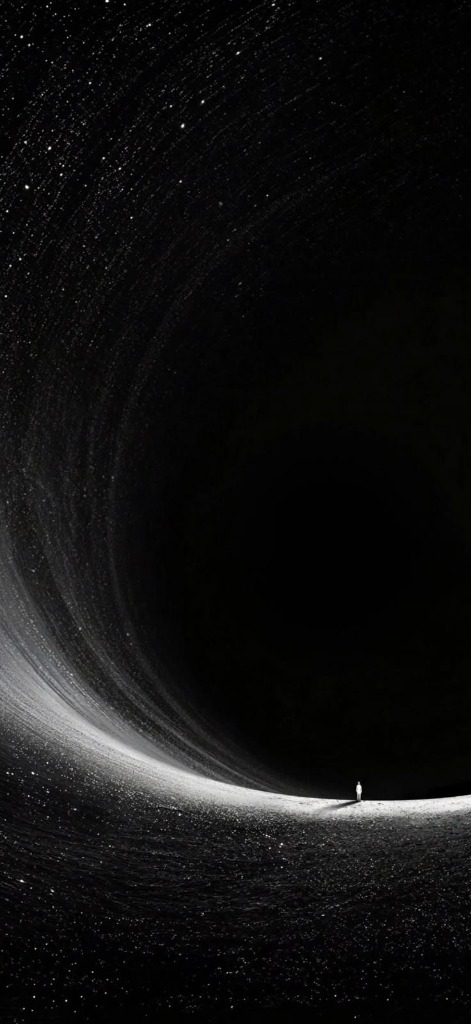
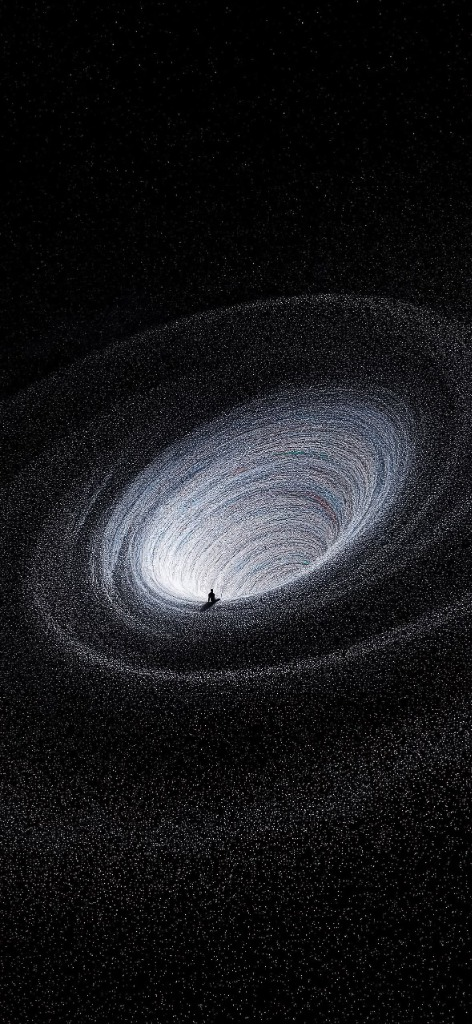
feat: apply cosmic vortex background, remove HUD online bar, and align mobile player with main card

diff --git a/src/components/Player.jsx b/src/components/Player.jsx
@@ -43,51 +43,53 @@ const Player = () => {
       </audio>
 
       {/* Volume Control Panel */}
-      <div className="fixed bottom-3 sm:bottom-6 left-1/2 sm:left-auto sm:right-6 -translate-x-1/2 sm:translate-x-0 z-50 glass-morphism rounded-2xl p-2.5 sm:p-3.5 flex flex-col gap-1.5 sm:gap-2 transition-all duration-300 w-[calc(100%-24px)] max-w-[340px] sm:max-w-none sm:w-auto shadow-2xl border border-white/10">
+      <div className="fixed bottom-3 sm:bottom-6 left-1/2 sm:left-auto sm:right-6 -translate-x-1/2 sm:translate-x-0 z-50 glass-morphism rounded-2xl p-3 sm:p-4 flex flex-col gap-2 transition-all duration-300 w-[calc(100%-28px)] max-w-sm sm:max-w-none sm:w-auto shadow-2xl border border-white/10">
         {/* Now Playing Text */}
         <div className="text-[10px] sm:text-xs text-zinc-400 text-center font-mono font-medium tracking-wider uppercase">
           Tocando agora: AUG MIDNIGHT
         </div>
 
         {/* Controls */}
-        <div className="flex items-center justify-center sm:justify-start gap-2.5 sm:gap-3">
-          {/* Play/Pause Button */}
-          <button
-            onClick={togglePlay}
-            className="w-9 h-9 sm:w-11 sm:h-11 rounded-full bg-white/10 hover:bg-white/20 active:scale-95 flex items-center justify-center transition-all duration-200"
-            title={isPlaying ? "Pausar" : "Tocar"}
-          >
-            {isPlaying ? (
-              <svg className="w-4 h-4 sm:w-5 sm:h-5 text-white" fill="currentColor" viewBox="0 0 24 24">
-                <path d="M6 19h4V5H6v14zm8-14v14h4V5h-4z"/>
-              </svg>
-            ) : (
-              <svg className="w-4 h-4 sm:w-5 sm:h-5 text-white" fill="currentColor" viewBox="0 0 24 24">
-                <path d="M8 5v14l11-7z"/>
-              </svg>
-            )}
-          </button>
+        <div className="flex items-center justify-between sm:justify-start gap-2.5 sm:gap-3 px-1 sm:px-0">
+          <div className="flex items-center gap-2">
+            {/* Play/Pause Button */}
+            <button
+              onClick={togglePlay}
+              className="w-9 h-9 sm:w-11 sm:h-11 rounded-full bg-white/10 hover:bg-white/20 active:scale-95 flex items-center justify-center transition-all duration-200"
+              title={isPlaying ? "Pausar" : "Tocar"}
+            >
+              {isPlaying ? (
+                <svg className="w-4 h-4 sm:w-5 sm:h-5 text-white" fill="currentColor" viewBox="0 0 24 24">
+                  <path d="M6 19h4V5H6v14zm8-14v14h4V5h-4z"/>
+                </svg>
+              ) : (
+                <svg className="w-4 h-4 sm:w-5 sm:h-5 text-white" fill="currentColor" viewBox="0 0 24 24">
+                  <path d="M8 5v14l11-7z"/>
+                </svg>
+              )}
+            </button>
 
-          {/* Mute Button */}
-          <button
-            onClick={toggleMute}
-            className="w-9 h-9 sm:w-11 sm:h-11 rounded-full bg-white/10 hover:bg-white/20 active:scale-95 flex items-center justify-center transition-all duration-200"
-            title={isMuted ? "Ativar som" : "Mutar"}
-          >
-            {isMuted ? (
-              <svg className="w-4 h-4 sm:w-5 sm:h-5 text-white" fill="none" stroke="currentColor" viewBox="0 0 24 24">
-                <path strokeLinecap="round" strokeLinejoin="round" strokeWidth={2} d="M5.586 15H4a1 1 0 01-1-1v-4a1 1 0 011-1h1.586l4.707-4.707C10.923 3.663 12 4.109 12 5v14c0 .891-1.077 1.337-1.707.707L5.586 15z" />
-                <path strokeLinecap="round" strokeLinejoin="round" strokeWidth={2} d="M17 14l2-2m0 0l2-2m-2 2l-2-2m2 2l2 2" />
-              </svg>
-            ) : (
-              <svg className="w-4 h-4 sm:w-5 sm:h-5 text-white" fill="none" stroke="currentColor" viewBox="0 0 24 24">
-                <path strokeLinecap="round" strokeLinejoin="round" strokeWidth={2} d="M15.536 8.464a5 5 0 010 7.072m2.828-9.9a9 9 0 010 12.728M5.586 15H4a1 1 0 01-1-1v-4a1 1 0 011-1h1.586l4.707-4.707C10.923 3.663 12 4.109 12 5v14c0 .891-1.077 1.337-1.707.707L5.586 15z" />
-              </svg>
-            )}
-          </button>
+            {/* Mute Button */}
+            <button
+              onClick={toggleMute}
+              className="w-9 h-9 sm:w-11 sm:h-11 rounded-full bg-white/10 hover:bg-white/20 active:scale-95 flex items-center justify-center transition-all duration-200"
+              title={isMuted ? "Ativar som" : "Mutar"}
+            >
+              {isMuted ? (
+                <svg className="w-4 h-4 sm:w-5 sm:h-5 text-white" fill="none" stroke="currentColor" viewBox="0 0 24 24">
+                  <path strokeLinecap="round" strokeLinejoin="round" strokeWidth={2} d="M5.586 15H4a1 1 0 01-1-1v-4a1 1 0 011-1h1.586l4.707-4.707C10.923 3.663 12 4.109 12 5v14c0 .891-1.077 1.337-1.707.707L5.586 15z" />
+                  <path strokeLinecap="round" strokeLinejoin="round" strokeWidth={2} d="M17 14l2-2m0 0l2-2m-2 2l-2-2m2 2l2 2" />
+                </svg>
+              ) : (
+                <svg className="w-4 h-4 sm:w-5 sm:h-5 text-white" fill="none" stroke="currentColor" viewBox="0 0 24 24">
+                  <path strokeLinecap="round" strokeLinejoin="round" strokeWidth={2} d="M15.536 8.464a5 5 0 010 7.072m2.828-9.9a9 9 0 010 12.728M5.586 15H4a1 1 0 01-1-1v-4a1 1 0 011-1h1.586l4.707-4.707C10.923 3.663 12 4.109 12 5v14c0 .891-1.077 1.337-1.707.707L5.586 15z" />
+                </svg>
+              )}
+            </button>
+          </div>
 
           {/* Volume Slider */}
-          <div className="flex items-center gap-2">
+          <div className="flex items-center gap-2 flex-1 sm:flex-initial max-w-[180px] sm:max-w-none justify-end">
             <input
               type="range"
               min="0"
@@ -95,12 +97,12 @@ const Player = () => {
               step="0.01"
               value={volume}
               onChange={(e) => setVolume(parseFloat(e.target.value))}
-              className="w-20 sm:w-28 h-2 bg-gray-700/50 rounded-full appearance-none cursor-pointer hover:h-3 transition-all duration-300"
+              className="w-full sm:w-28 h-2 bg-gray-700/50 rounded-full appearance-none cursor-pointer hover:h-3 transition-all duration-300"
               style={{
                 background: `linear-gradient(to right, #ffffff 0%, #ffffff ${volume * 100}%, #374151 ${volume * 100}%, #374151 100%)`
               }}
             />
-            <span className="text-white/60 text-[11px] sm:text-xs w-7 text-right font-mono">
+            <span className="text-white/60 text-[11px] sm:text-xs w-7 text-right font-mono flex-shrink-0">
               {Math.round(volume * 100)}%
             </span>
           </div>

diff --git a/src/App.jsx b/src/App.jsx
@@ -134,27 +134,11 @@ function App() {
           animate="visible"
           className="w-full max-w-sm sm:max-w-md lg:max-w-lg mx-auto"
         >
-          {/* Main HUD Card */}
+          {/* Main Card */}
           <motion.div
             variants={itemVariants}
-            className="glass-morphism rounded-2xl sm:rounded-3xl p-4 sm:p-7 shadow-2xl relative border border-white/10"
+            className="glass-morphism rounded-2xl sm:rounded-3xl p-5 sm:p-7 shadow-2xl relative border border-white/10"
           >
-            {/* Top decorative subtle HUD bar */}
-            <div className="flex items-center justify-between pb-4 mb-5 border-b border-white/[0.06]">
-              <div className="flex items-center space-x-2">
-                <span className="relative flex h-2 w-2">
-                  <span className="animate-ping absolute inline-flex h-full w-full rounded-full bg-emerald-400 opacity-75"></span>
-                  <span className="relative inline-flex rounded-full h-2 w-2 bg-emerald-500"></span>
-                </span>
-                <span className="text-[11px] font-mono tracking-widest text-zinc-400 uppercase">
-                  HUD // ONLINE
-                </span>
-              </div>
-              <span className="text-[11px] font-mono text-zinc-500 tracking-wider">
-                v2.0 • AUG
-              </span>
-            </div>
-
             {/* Profile Section */}
             <motion.div
               variants={itemVariants}
